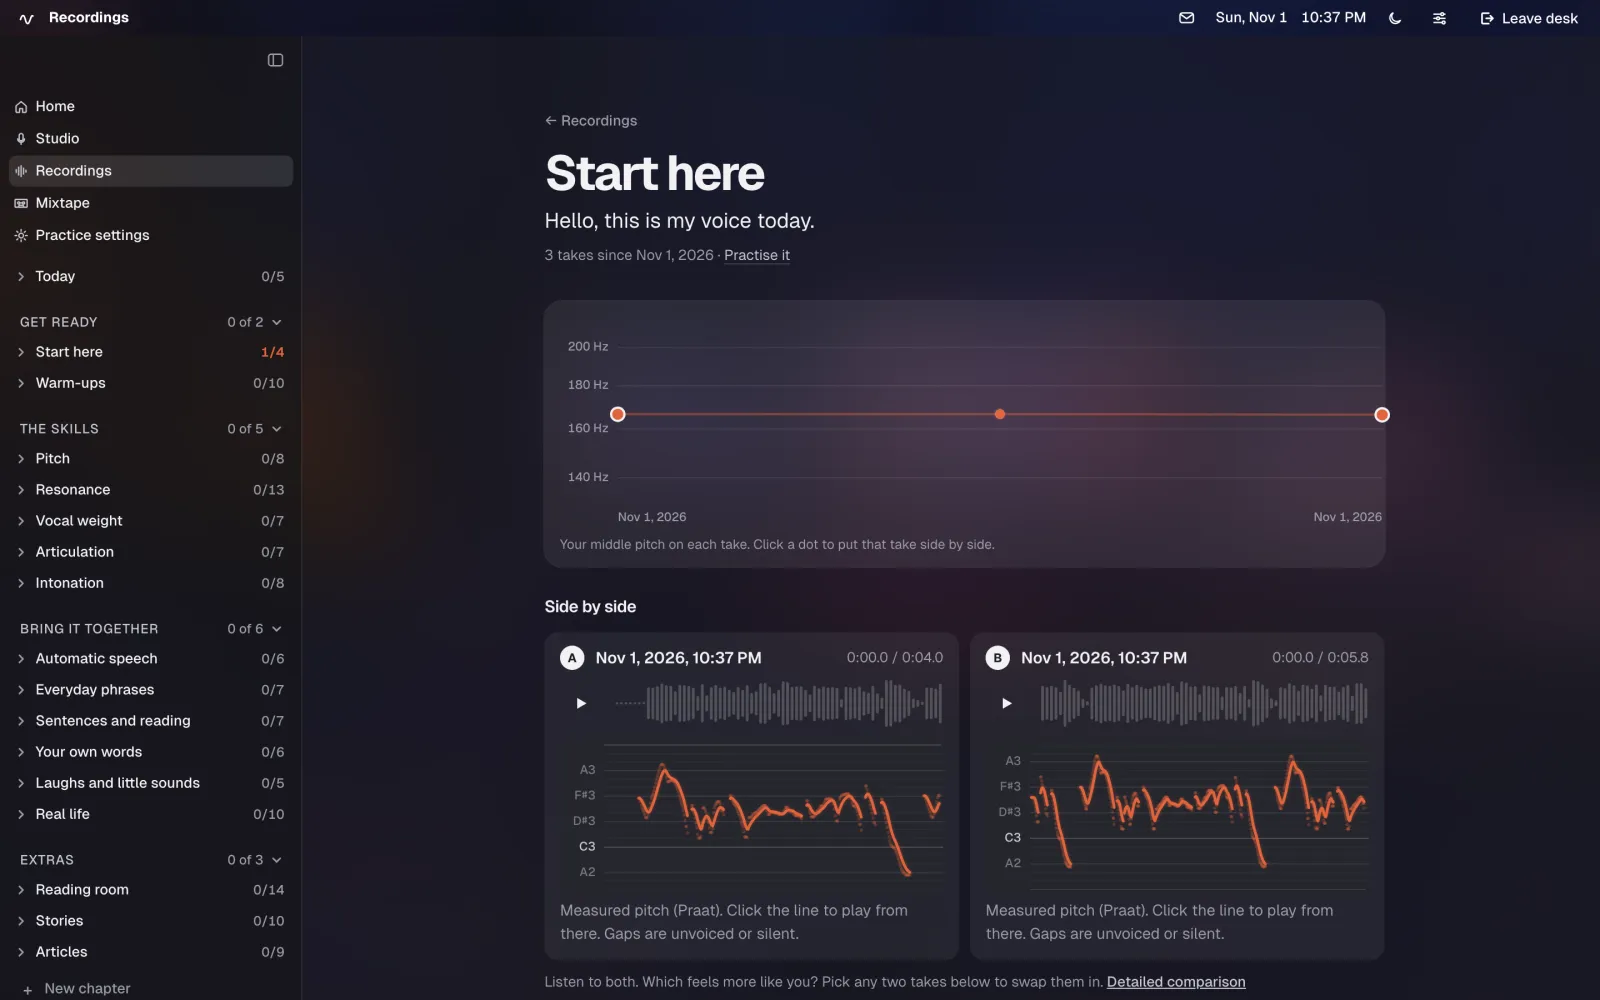
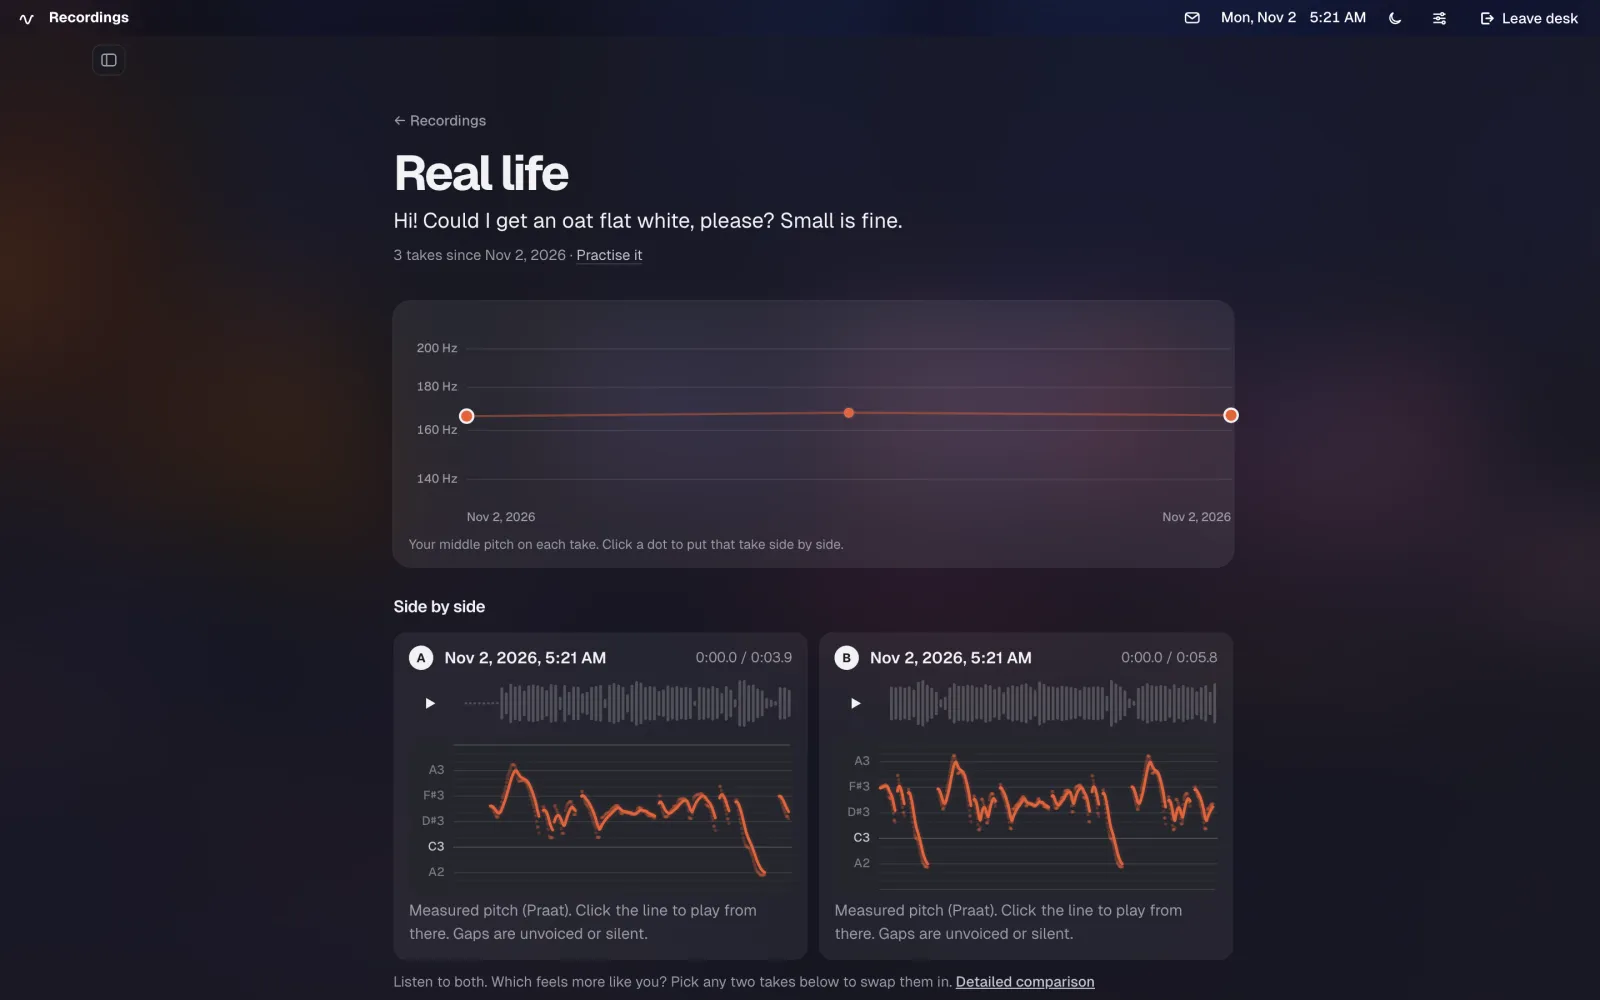
The README presents Lilt as an app for self-directed courses, with no course-specific wording; the licensing detail moved to docs/guide.md with a one-line pointer. New screenshots from a neutral demo: its own note on the desk, no man/woman scale, an everyday text, the sidebar folded

diff --git a/README.md b/README.md
@@ -1,28 +1,24 @@
 # Lilt
 
-A small, private app for practising your voice out loud, a few minutes a day. Read a short text,
-watch your pitch live, listen back, try again. Every recording stays on your computer, so in a month
-you can hear how far you've come.
+A small, private app for self-directed courses. Practise a few minutes a day at your own pace:
+record yourself, listen back, try again. Courses are plain Markdown you can write or remix, practice
+comes back on a schedule you set, and every recording stays on your computer.
 
 ![The room: today's cards, a radio, a clock and a plant that grows when you practise](docs/images/room.webp)
 
 ## What it does
 
 - **A cosy room to practise in.** Today's cards sit in a stack; sit down at the computer to start.
-- **Courses in plain Markdown.** One skill per chapter, explained first, with a check-in text you
-  repeat each visit. The first course is voice training: warm-ups, pitch, resonance, weight,
-  intonation, then everyday speech.
-- **Spaced practice, rated by you.** Cards come back on a schedule your own rating sets. Numbers never grade you.
-- **Measured, then described in words.** Praat measures pitch and resonance; Lilt says what it heard
-  and suggests one thing to try.
-- **Your progress over time.** Compare any take with your first one, or see every take of a text on one line.
-- **Make it yours.** Remix a chapter by asking your AI (ChatGPT, or any agent over MCP). Every change can be undone.
+- **Courses you can write.** A course is a folder of Markdown chapters, each explaining one skill
+  before you practise it, with a check-in you repeat every visit so change shows over time.
+- **Spaced practice, rated by you.** Cards come back on a schedule your own rating sets. Nothing grades you.
+- **Record, listen, compare.** Each take is measured and described in plain words, with one thing to
+  try next. Put it beside your first take, or see every take of a text on one line.
+- **Make it yours.** Remix any chapter by asking your AI (ChatGPT, or any agent over MCP). Every change can be undone.
 
-| Practise a text, A/B with last time | What a take measured |
+| Practise a text, then compare with last time | One text over time |
 | --- | --- |
-| ![A chapter text with your take, a suggestion and A/B players](docs/images/chapter.webp) | ![Pitch details after a take](docs/images/result.webp) |
-
-![One text over time: middle pitch on every take, any two side by side](docs/images/history.webp)
+| ![A text with your take, a suggestion and two takes side by side](docs/images/chapter.webp) | ![Every take of one text on a line, any two side by side](docs/images/history.webp) |
 
 ## Quick start
 
@@ -43,20 +39,10 @@ Data lives in `~/Lilt/data` (Docker: `./lilt-data`), and Lilt only listens on yo
 
 ## Good to know
 
-- **Not a clinical tool.** It doesn't diagnose, score you or replace a speech and language therapist.
-- **Everything is yours.** Recordings are ordinary audio and JSON files; Recordings → Export all makes a full copy.
+- **Private by default.** Takes are ordinary audio and JSON files; Recordings → Export all makes a full copy.
+- **Describes, never diagnoses.** Lilt isn't a clinical tool and doesn't score you.
+- **Write a course:** see [docs/courses.md](docs/courses.md). Course texts live in `content/courses`.
 - **More:** the [guide](docs/guide.md) (every feature, MCP, other devices, settings, troubleshooting,
-  tests), [writing a course](docs/courses.md), [tech stack](docs/tech-stack.md) and
-  [what's been verified](VALIDATION.md). Contributions are welcome.
-
-## Content and licensing
-
-The practice texts (the chapters and today's text cards) are Markdown files in `content/courses/voice`,
-one per chapter, so you can edit them in any editor or as an Obsidian vault without touching code.
-[content/courses/voice/README.md](content/courses/voice/README.md) explains the format. Restart Lilt after editing
-(with Docker, `docker compose up -d --build`).
-
-The exercise texts in `content/exercises` are short paraphrases of NHS Fife Speech and Language Therapy
-patient-advice pages, with links to the originals. NHS Fife permits use for private study and personal
-use only, so keep this repository private and don't redistribute that content. The status of every
-exercise is `source_checked`: an AI checked it against its source, and no clinician has reviewed it.
+  tests), the [tech stack](docs/tech-stack.md) and [what's been verified](VALIDATION.md). Contributions are welcome.
+- **Licensing:** the bundled exercise texts paraphrase NHS Fife patient-advice pages, which allow
+  personal use only. See [content and licensing](docs/guide.md#content-and-licensing).

diff --git a/docs/guide.md b/docs/guide.md
@@ -399,3 +399,15 @@ older takes again** at the bottom of Recordings (or `curl -X POST http://127.0.0
 re-measures every take analysed with an older method. Each take gets a new analysis run
 (`run-<take>-a2.json`, …) and the earlier runs stay on disk, so reviews that cite them keep their
 evidence; re-measuring never rewrites feedback you've already read.
+
+## Content and licensing
+
+The practice texts (the chapters and today's text cards) are Markdown files in `content/courses/voice`,
+one per chapter, so you can edit them in any editor or as an Obsidian vault without touching code.
+[content/courses/voice/README.md](content/courses/voice/README.md) explains the format. Restart Lilt after editing
+(with Docker, `docker compose up -d --build`).
+
+The exercise texts in `content/exercises` are short paraphrases of NHS Fife Speech and Language Therapy
+patient-advice pages, with links to the originals. NHS Fife permits use for private study and personal
+use only, so keep this repository private and don't redistribute that content. The status of every
+exercise is `source_checked`: an AI checked it against its source, and no clinician has reviewed it.
